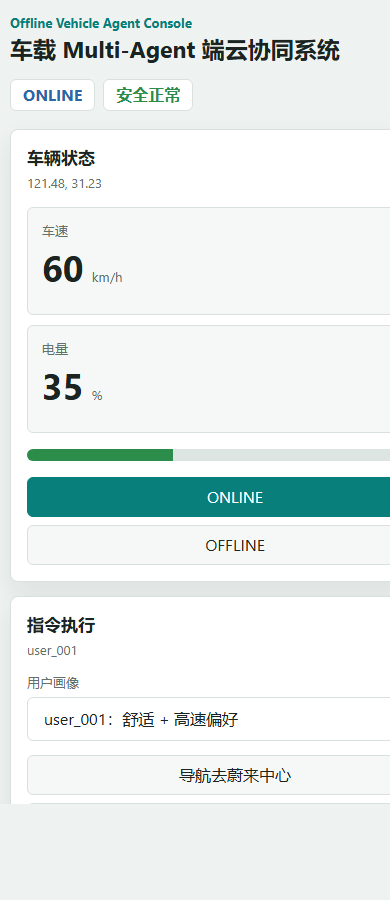
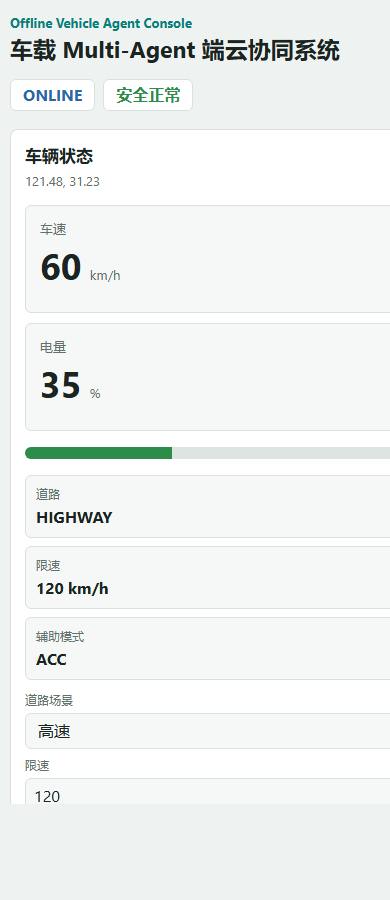
test: add web demo browser qa

Changed region(s): [[0.0308, 0.1556, 1.0, 0.9022]]

diff --git a/web_demo/static/styles.css b/web_demo/static/styles.css
@@ -18,6 +18,10 @@
   box-sizing: border-box;
 }
 
+html {
+  overflow-x: hidden;
+}
+
 body {
   margin: 0;
   min-height: 100vh;
@@ -114,6 +118,8 @@ h2 {
   border-radius: 8px;
   box-shadow: var(--shadow);
   padding: 18px;
+  width: 100%;
+  max-width: 100%;
   min-width: 0;
 }
 
@@ -935,12 +941,13 @@ h2 {
   .app-shell {
     width: min(720px, calc(100vw - 20px));
     padding: 14px 0;
+    max-width: 100%;
   }
 
   .topbar,
   .dashboard-grid,
   .result-grid {
-    grid-template-columns: 1fr;
+    grid-template-columns: minmax(0, 1fr);
   }
 
   .topbar {
@@ -953,6 +960,8 @@ h2 {
 
   .dashboard-grid {
     display: grid;
+    width: 100%;
+    overflow: hidden;
   }
 
   .result-panel {
@@ -966,11 +975,12 @@ h2 {
 
 @media (max-width: 520px) {
   .app-shell {
-    width: calc(100vw - 20px);
+    width: 100%;
+    padding: 14px 10px;
   }
 
   .panel {
-    padding: 16px;
+    padding: 14px;
   }
 
   .panel-heading {
@@ -996,7 +1006,25 @@ h2 {
   .route-summary,
   .acceptance-summary,
   .result-grid {
-    grid-template-columns: 1fr;
+    grid-template-columns: minmax(0, 1fr);
+  }
+
+  .metric,
+  .vehicle-context div,
+  .vehicle-state-controls label,
+  .scenario-grid button,
+  .demo-step,
+  .graph-strip div,
+  .eval-grid div,
+  .provider-grid div,
+  .route-summary div,
+  .acceptance-summary div,
+  .result-grid div,
+  .result-output,
+  .clarification-card,
+  .clarification-candidate {
+    min-width: 0;
+    max-width: 100%;
   }
 
   .scenario-grid button,

diff --git a/scripts/web_qa.py b/scripts/web_qa.py
@@ -3,6 +3,7 @@ import json
 import shutil
 import subprocess
 import tempfile
+import sys
 from dataclasses import dataclass
 from datetime import datetime, timezone
 from pathlib import Path
@@ -10,9 +11,16 @@ from urllib import error, request
 
 
 PROJECT_ROOT = Path(__file__).resolve().parents[1]
+if str(PROJECT_ROOT) not in sys.path:
+    sys.path.insert(0, str(PROJECT_ROOT))
 DEFAULT_REPORT = PROJECT_ROOT / "reports" / "web_qa_report.md"
 DEFAULT_JSON = PROJECT_ROOT / "reports" / "web_qa_report.json"
 DEFAULT_SCREENSHOT_DIR = PROJECT_ROOT / "reports" / "browser_qa"
+
+from scripts.run_delivery_check import DEMO_CASES
+
+
+DEFAULT_DEMO_VEHICLE_STATE = DEMO_CASES[0]["vehicle_state"]
 
 
 @dataclass
@@ -37,6 +45,7 @@ def main():
     results.extend(check_static_assets(base_url))
     results.extend(check_state(base_url))
     results.extend(check_command_matrix(base_url))
+    results.extend(check_demo_matrix(base_url))
 
     screenshots = []
     if args.screenshots:
@@ -69,7 +78,16 @@ def main():
 
 def check_static_assets(base_url):
     checks = []
-    for path, min_size in [("/", 1000), ("/app.js", 5000), ("/styles.css", 3000)]:
+    assets = [
+        ("/", 1000),
+        ("/app.js", 1000),
+        ("/styles.css", 3000),
+        ("/js/api.js", 500),
+        ("/js/events.js", 2000),
+        ("/js/renderers/demo.js", 1000),
+        ("/js/renderers/result.js", 3000),
+    ]
+    for path, min_size in assets:
         status, body, _ = http_get(base_url + path)
         if status == 200 and len(body) >= min_size:
             checks.append(CheckResult(f"asset {path}", "PASS", f"HTTP 200, {len(body)} bytes"))
@@ -90,9 +108,21 @@ def check_state(base_url):
     if missing:
         return [CheckResult("api state", "FAIL", f"missing providers: {', '.join(missing)}")]
 
+    expected_demo_ids = [case["id"] for case in DEMO_CASES]
+    actual_demo_ids = [item.get("id") for item in payload.get("demo_steps") or []]
+    if actual_demo_ids != expected_demo_ids:
+        return [
+            CheckResult(
+                "api state",
+                "FAIL",
+                f"demo steps mismatch: {actual_demo_ids} expected {expected_demo_ids}",
+            )
+        ]
+
     detail = (
         f"orchestrator={providers.get('orchestrator')}, "
-        f"acceptance={acceptance.get('overall_status')}"
+        f"acceptance={acceptance.get('overall_status')}, "
+        f"demo_steps={len(payload.get('demo_steps') or [])}"
     )
     return [CheckResult("api state", "PASS", detail)]
 
@@ -149,11 +179,69 @@ def check_command_matrix(base_url):
         },
     ]
     results = [check_command_case(base_url, case) for case in cases]
-    results.append(check_online_error_case(base_url))
+    results.append(check_clarification_case(base_url))
     return results
 
 
+def check_demo_matrix(base_url):
+    results = []
+    for case in DEMO_CASES:
+        results.append(check_demo_case(base_url, case))
+    reset_vehicle_state(base_url)
+    return results
+
+
+def check_demo_case(base_url, case):
+    state_status, state_body, state_payload = http_post_json(
+        base_url + "/api/vehicle-state",
+        case["vehicle_state"],
+    )
+    if state_status != 200:
+        return CheckResult(
+            f"demo {case['id']}",
+            "FAIL",
+            f"vehicle-state HTTP {state_status}: {state_body[:180]}",
+        )
+
+    status, body, payload = http_post_json(
+        base_url + "/api/run",
+        {
+            "content": case["content"],
+            "user_id": f"webqa_{case['id']}",
+            "network": case["network"],
+        },
+    )
+    if status != 200:
+        return CheckResult(f"demo {case['id']}", "FAIL", f"run HTTP {status}: {body[:240]}")
+
+    request_payload = payload.get("request", {})
+    result_payload = payload.get("result", {})
+    vehicle_payload = state_payload.get("vehicle_state", {})
+    failures = []
+    if request_payload.get("command_type") != case["expected_command_type"]:
+        failures.append(f"command={request_payload.get('command_type')}")
+    if result_payload.get("status") != case["expected_status"]:
+        failures.append(f"status={result_payload.get('status')}")
+    for key, expected in case["vehicle_state"].items():
+        if vehicle_payload.get(key) != expected:
+            failures.append(f"{key}={vehicle_payload.get(key)}")
+
+    if failures:
+        return CheckResult(f"demo {case['id']}", "FAIL", ", ".join(failures))
+
+    detail = (
+        f"{case['title']}: {request_payload.get('command_type')} / "
+        f"{result_payload.get('status')}"
+    )
+    return CheckResult(f"demo {case['id']}", "PASS", detail)
+
+
+def reset_vehicle_state(base_url):
+    return http_post_json(base_url + "/api/vehicle-state", DEFAULT_DEMO_VEHICLE_STATE)
+
+
 def check_command_case(base_url, case):
+    reset_vehicle_state(base_url)
     status, body, payload = http_post_json(base_url + "/api/run", case["payload"])
     if status != case["http"]:
         return CheckResult(case["name"], "FAIL", f"HTTP {status}, expected {case['http']}: {body[:160]}")
@@ -183,21 +271,30 @@ def check_command_case(base_url, case):
     return CheckResult(case["name"], "PASS", detail)
 
 
-def check_online_error_case(base_url):
+def check_clarification_case(base_url):
+    reset_vehicle_state(base_url)
     status, body, payload = http_post_json(
         base_url + "/api/run",
         {
-            "content": "\u5bfc\u822a\u53bb\u5df4\u9ece",
-            "user_id": "qa_error",
+            "content": "\u5bfc\u822a\u53bb\u5317\u4eac",
+            "user_id": "qa_clarification",
             "network": "ONLINE",
         },
     )
-    info = payload.get("error") or {}
-    title = info.get("user_title") or ""
-    suggestions = info.get("suggestions") or []
-    if status == 502 and title and suggestions and info.get("technical_message"):
-        return CheckResult("online friendly error", "PASS", f"HTTP 502, title={title}")
-    return CheckResult("online friendly error", "FAIL", f"HTTP {status}: {body[:240]}")
+    result = payload.get("result") or {}
+    clarification = result.get("clarification") or {}
+    if (
+        status == 200
+        and result.get("status") == "NEEDS_CLARIFICATION"
+        and clarification.get("query")
+        and clarification.get("question")
+    ):
+        return CheckResult(
+            "clarification normal state",
+            "PASS",
+            f"{clarification.get('query')} -> {result.get('status')}",
+        )
+    return CheckResult("clarification normal state", "FAIL", f"HTTP {status}: {body[:240]}")
 
 
 def capture_screenshots(base_url, screenshot_dir, screenshots):
@@ -247,6 +344,8 @@ def find_browser():
 
 
 def run_screenshot(browser, user_data_dir, url, target, width, height):
+    if target.exists():
+        target.unlink()
     base_flags = [
         browser,
         "--headless=new",
@@ -268,6 +367,10 @@ def run_screenshot(browser, user_data_dir, url, target, width, height):
             text=True,
             timeout=45,
         )
+    except subprocess.TimeoutExpired as exc:
+        if target.exists() and target.stat().st_size > 1000:
+            return True, f"{target} ({target.stat().st_size} bytes, browser timed out after capture)"
+        return False, str(exc)
     except Exception as exc:
         return False, str(exc)
 
@@ -340,6 +443,7 @@ def render_markdown(payload):
         for screenshot in payload["screenshots"]:
             path = Path(screenshot)
             lines.append(f"- {path.name}: `{path}`")
+            lines.append(f"  ![{path.stem}]({path.as_posix()})")
     lines.append("")
     return "\n".join(lines)
 

diff --git a/tests/test_web_qa.py b/tests/test_web_qa.py
@@ -1,0 +1,31 @@
+import unittest
+
+from scripts.web_qa import CheckResult, render_markdown
+
+
+class TestWebQaReport(unittest.TestCase):
+    def test_report_lists_checks_and_screenshots(self):
+        payload = {
+            "generated_at": "2026-05-08T20:00:00+08:00",
+            "base_url": "http://127.0.0.1:8031",
+            "overall_status": "PASS",
+            "checks": [
+                CheckResult("demo online_navigation", "PASS", "NAVIGATION / EXECUTED").__dict__,
+                CheckResult(
+                    "demo fuzzy_destination_clarification",
+                    "PASS",
+                    "NAVIGATION / NEEDS_CLARIFICATION",
+                ).__dict__,
+            ],
+            "screenshots": ["E:/claudeCode/weilaiAgent/reports/browser_qa/desktop.png"],
+        }
+
+        report = render_markdown(payload)
+
+        self.assertIn("# Web QA Report", report)
+        self.assertIn("| demo online_navigation | PASS | NAVIGATION / EXECUTED |", report)
+        self.assertIn("![desktop]", report)
+
+
+if __name__ == "__main__":
+    unittest.main()

diff --git a/tests/test_web_demo_markup.py b/tests/test_web_demo_markup.py
@@ -37,6 +37,15 @@ class TestWebDemoMarkup(unittest.TestCase):
         self.assertIn(".clarification-candidates", css)
         self.assertIn(".clarification-candidate", css)
 
+    def test_styles_include_mobile_overflow_guardrails(self):
+        css = Path("web_demo/static/styles.css").read_text(encoding="utf-8")
+
+        self.assertIn("@media (max-width: 520px)", css)
+        self.assertIn("grid-template-columns: minmax(0, 1fr);", css)
+        self.assertIn("padding: 14px 10px;", css)
+        self.assertIn("overflow-x: hidden;", css)
+        self.assertIn("max-width: 100%;", css)
+
 
 if __name__ == "__main__":
     unittest.main()

diff --git a/reports/web_qa_report.md b/reports/web_qa_report.md
@@ -1,26 +1,37 @@
 # Web QA Report
 
-- Generated at: 2026-05-07T00:56:12.719338+08:00
-- Base URL: http://127.0.0.1:8032
+- Generated at: 2026-05-08T18:23:34.414427+08:00
+- Base URL: http://127.0.0.1:8031
 - Overall status: PASS
 
 ## Checks
 
 | Check | Status | Detail |
 | --- | --- | --- |
-| asset / | PASS | HTTP 200, 8843 bytes |
-| asset /app.js | PASS | HTTP 200, 24271 bytes |
-| asset /styles.css | PASS | HTTP 200, 12652 bytes |
-| api state | PASS | orchestrator=langgraph_default, acceptance=PASS |
+| asset / | PASS | HTTP 200, 10484 bytes |
+| asset /app.js | PASS | HTTP 200, 2867 bytes |
+| asset /styles.css | PASS | HTTP 200, 16263 bytes |
+| asset /js/api.js | PASS | HTTP 200, 1449 bytes |
+| asset /js/events.js | PASS | HTTP 200, 5708 bytes |
+| asset /js/renderers/demo.js | PASS | HTTP 200, 2957 bytes |
+| asset /js/renderers/result.js | PASS | HTTP 200, 7183 bytes |
+| api state | PASS | orchestrator=langgraph_default, acceptance=PASS, demo_steps=5 |
 | online navigation | PASS | NAVIGATION / EXECUTED / graph=langgraph / trip_plan=True |
 | online car control | PASS | CAR_CONTROL / EXECUTED / graph=langgraph / trip_plan=False |
 | dangerous block | PASS | CAR_CONTROL / BLOCKED / graph=- / trip_plan=False |
 | offline fallback | PASS | CAR_CONTROL / FALLBACK / graph=- / trip_plan=False |
-| online friendly error | PASS | HTTP 502, title=没有找到这个目的地 |
-| screenshot desktop | PASS | E:\claudeCode\weilaiAgent\reports\browser_qa\desktop.png (84138 bytes) |
-| screenshot mobile | PASS | E:\claudeCode\weilaiAgent\reports\browser_qa\mobile.png (29120 bytes) |
+| clarification normal state | PASS | 北京 -> NEEDS_CLARIFICATION |
+| demo online_navigation | PASS | 正常导航端云协同: NAVIGATION / EXECUTED |
+| demo fuzzy_destination_clarification | PASS | 模糊目的地澄清: NAVIGATION / NEEDS_CLARIFICATION |
+| demo highway_speed_confirmation | PASS | 高速速度请求确认: CAR_CONTROL / NEEDS_DRIVER_CONFIRMATION |
+| demo urban_speed_block | PASS | 城市超限危险拦截: CAR_CONTROL / BLOCKED |
+| demo low_battery_energy_policy | PASS | 低电量状态与能源策略: NAVIGATION / NEEDS_CHARGE_CONFIRMATION |
+| screenshot desktop | PASS | E:\claudeCode\weilaiAgent\reports\browser_qa\desktop.png (96421 bytes) |
+| screenshot mobile | PASS | E:\claudeCode\weilaiAgent\reports\browser_qa\mobile.png (26607 bytes) |
 
 ## Screenshots
 
 - desktop.png: `E:\claudeCode\weilaiAgent\reports\browser_qa\desktop.png`
+  ![desktop](E:/claudeCode/weilaiAgent/reports/browser_qa/desktop.png)
 - mobile.png: `E:\claudeCode\weilaiAgent\reports\browser_qa\mobile.png`
+  ![mobile](E:/claudeCode/weilaiAgent/reports/browser_qa/mobile.png)